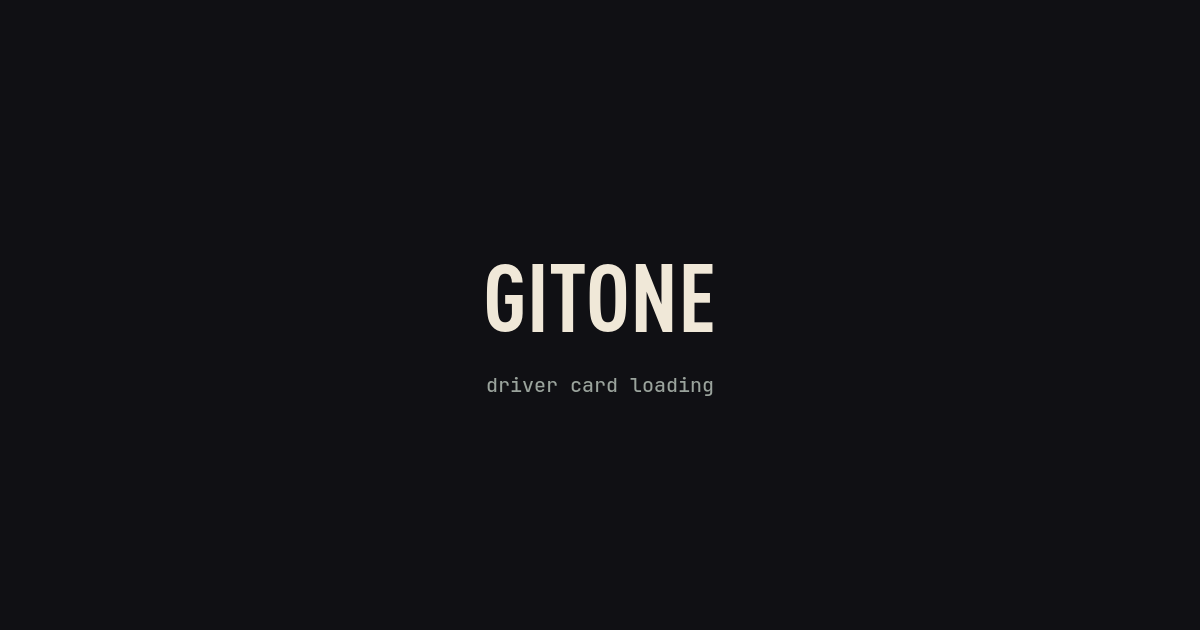
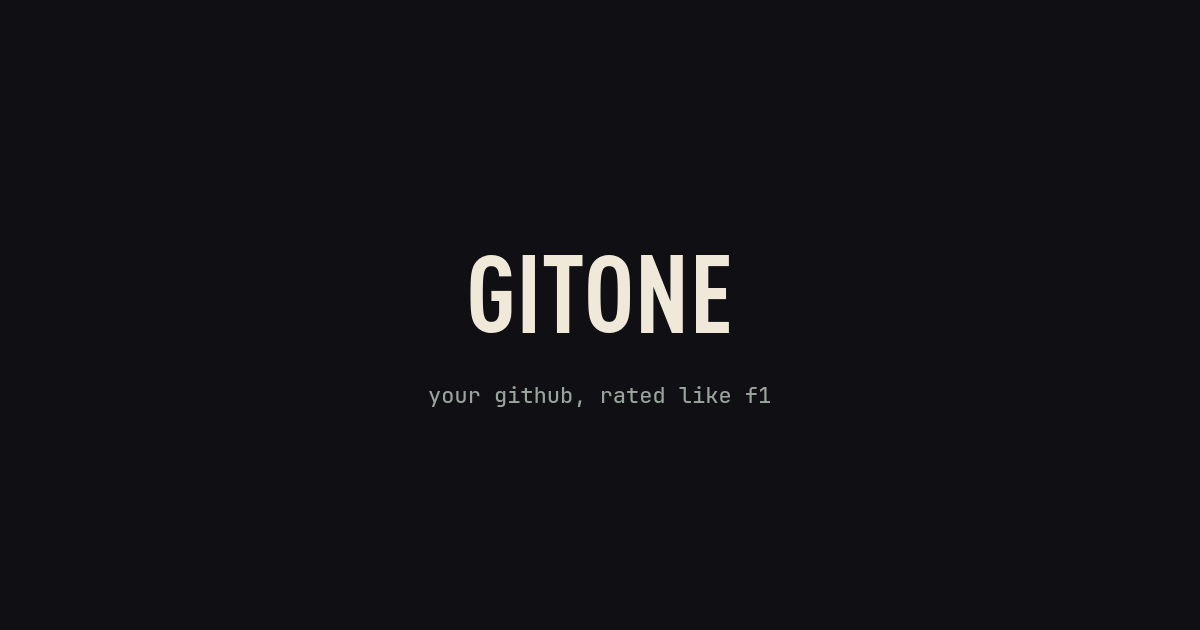
fix(preview): cache-bust OG images and neutralise fallback card
Crawlers cached the old loading-text fallback. Versioned OG URLs force a recrawl; fallback now shows the brand without a loading label.

Changed region(s): [[0.37, 0.3921, 0.6167, 0.5429], [0.37, 0.6032, 0.6475, 0.6635]]

diff --git a/app/[username]/page.tsx b/app/[username]/page.tsx
@@ -43,8 +43,8 @@ export async function generateMetadata({
     title: `${card.name} · RTG ${card.rtg}`,
     description,
     alternates: { canonical: `/${card.login}` },
-    openGraph: { title: `${card.name} · RTG ${card.rtg} · gitone`, description, images: [`/${card.login}/opengraph-image`] },
-    twitter: { card: "summary_large_image", title: `${card.name} · RTG ${card.rtg} · gitone`, description, images: [`/${card.login}/opengraph-image`] },
+    openGraph: { title: `${card.name} · RTG ${card.rtg} · gitone`, description, images: [`/${card.login}/opengraph-image?ogv=2`] },
+    twitter: { card: "summary_large_image", title: `${card.name} · RTG ${card.rtg} · gitone`, description, images: [`/${card.login}/opengraph-image?ogv=2`] },
   };
 }
 

diff --git a/app/layout.tsx b/app/layout.tsx
@@ -70,7 +70,7 @@ export const metadata: Metadata = {
     // which X renders as a plain white panel.
     images: [
       {
-        url: "/og-root.png",
+        url: "/og-root.png?ogv=2",
         width: 1200,
         height: 630,
         alt: "gitone · your github, rated like f1",
@@ -82,7 +82,7 @@ export const metadata: Metadata = {
     title: "gitone · your github, rated like f1",
     description:
       "GitHub profiles as F1 26 driver cards: EXP, RAC, AWA, PAC scored live from real commits, PRs and reviews.",
-    images: ["/og-root.png"],
+    images: ["/og-root.png?ogv=2"],
   },
   robots: { index: true, follow: true },
 };

diff --git a/app/[username]/vs/[opponent]/page.tsx b/app/[username]/vs/[opponent]/page.tsx
@@ -23,9 +23,9 @@ export async function generateMetadata({
     openGraph: {
       title: `${username} vs ${opponent} · gitone`,
       description,
-      images: [`/${username}/vs/${opponent}/opengraph-image`],
+      images: [`/${username}/vs/${opponent}/opengraph-image?ogv=2`],
     },
-    twitter: { card: "summary_large_image", title: `${username} vs ${opponent} · gitone`, description, images: [`/${username}/vs/${opponent}/opengraph-image`] },
+    twitter: { card: "summary_large_image", title: `${username} vs ${opponent} · gitone`, description, images: [`/${username}/vs/${opponent}/opengraph-image?ogv=2`] },
   };
 }
 
